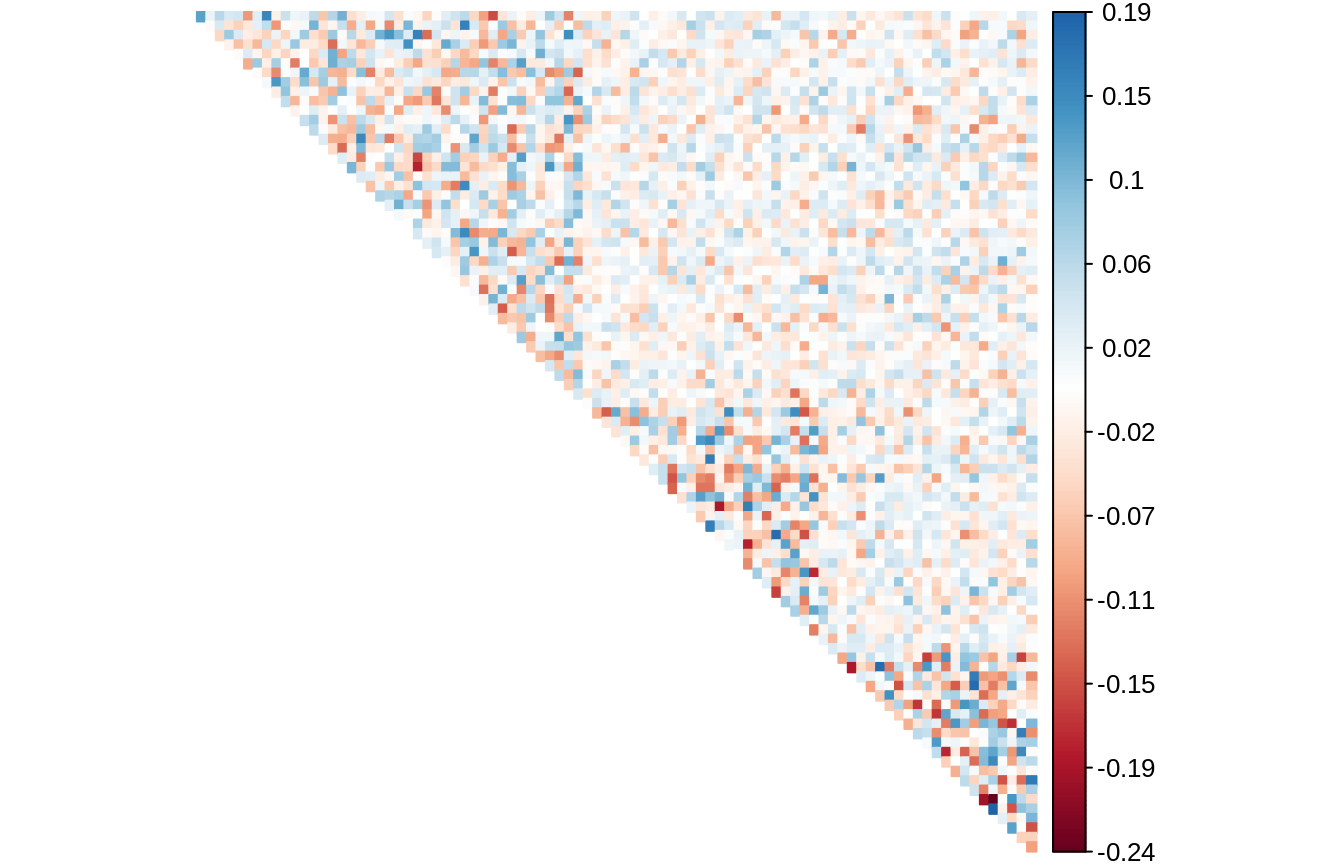
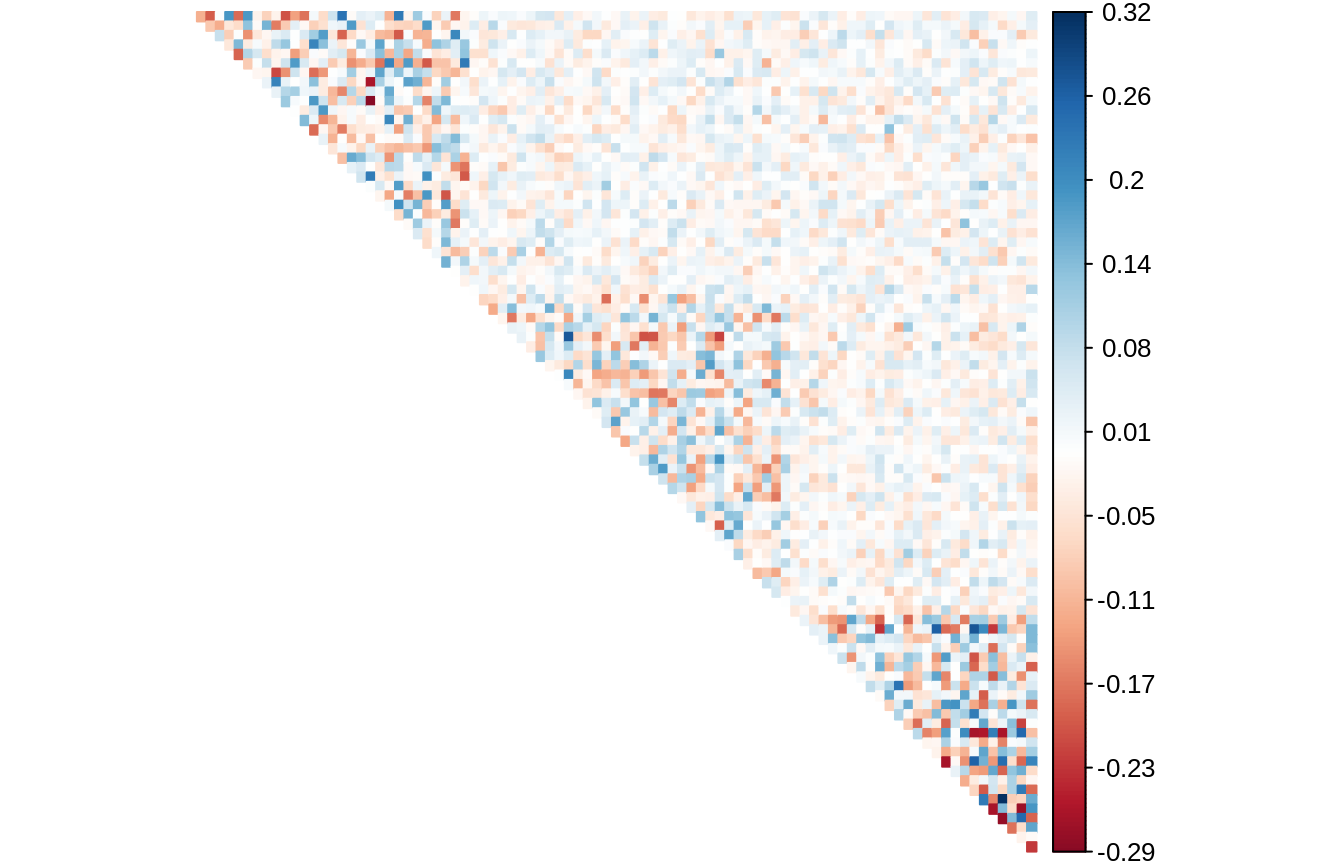
Deploy jchiquet/rggm to github.com/jchiquet/rggm.git:gh-pages

diff --git a/articles/GGM_data_generation.html b/articles/GGM_data_generation.html
@@ -87,7 +87,7 @@
     <div class="page-header toc-ignore">
       <h1 data-toc-skip>Generating Gaussian data from a Graphical Model with SBM structure</h1>
             
-            <h4 class="date">27 March, 2020</h4>
+            <h4 class="date">01 April, 2020</h4>
       
       <small class="dont-index">Source: <a href="https://github.com/jchiquet/rggm/blob/master/vignettes/GGM_data_generation.Rmd"><code>vignettes/GGM_data_generation.Rmd</code></a></small>
       <div class="hidden name"><code>GGM_data_generation.Rmd</code></div>
@@ -112,9 +112,9 @@
 <a href="#sbm-parameters" class="anchor"></a>SBM parameters</h3>
 <p>We consider in the following an undirect network <span class="math inline">\(\mathcal{G}\)</span> with 100 nodes splitted into 3 blocks with community-like connectivity:</p>
 <div class="sourceCode" id="cb2"><html><body><pre class="r"><span class="no">nNodes</span>  <span class="kw">&lt;-</span> <span class="fl">90</span>
-<span class="no">blockProp</span> <span class="kw">&lt;-</span> <span class="fu"><a href="https://rdrr.io/r/base/c.html">c</a></span>(<span class="fl">.5</span>, <span class="fl">.25</span>, <span class="fl">.25</span>)   <span class="co"># group proportions</span>
+<span class="no">blockProp</span> <span class="kw">&lt;-</span> <span class="fu"><a href="https://rdrr.io/r/base/c.html">c</a></span>(<span class="fl">1</span>/<span class="fl">3</span>, <span class="fl">1</span>/<span class="fl">3</span>, <span class="fl">1</span>/<span class="fl">3</span>)   <span class="co"># group proportions</span>
 <span class="no">nbBlock</span>   <span class="kw">&lt;-</span> <span class="fu"><a href="https://rdrr.io/r/base/length.html">length</a></span>(<span class="no">blockProp</span>) <span class="co"># number of blocks</span>
-<span class="no">connectParam</span> <span class="kw">&lt;-</span> <span class="fu"><a href="https://rdrr.io/r/base/diag.html">diag</a></span>(<span class="fl">.4</span>, <span class="no">nbBlock</span>) + <span class="fl">0.05</span> <span class="co"># connectivity matrix: affiliation network</span></pre></body></html></div>
+<span class="no">connectParam</span> <span class="kw">&lt;-</span> <span class="fu"><a href="https://rdrr.io/r/base/diag.html">diag</a></span>(<span class="fl">.4</span>, <span class="no">nbBlock</span>) + <span class="fl">0.01</span> <span class="co"># connectivity matrix: affiliation network</span></pre></body></html></div>
 </div>
 <div id="sampling-under-the-sbm" class="section level3">
 <h3 class="hasAnchor">
@@ -123,13 +123,16 @@
 <div class="sourceCode" id="cb3"><html><body><pre class="r"><span class="co">## Graph Sampling</span>
 <span class="no">mySBM</span> <span class="kw">&lt;-</span> <span class="fu"><a href="../reference/rSBM.html">rSBM</a></span>(<span class="no">nNodes</span>, <span class="no">connectParam</span>, <span class="no">blockProp</span>)
 <span class="co">## Graph plotting</span>
-<span class="fu"><a href="https://rdrr.io/r/graphics/plot.html">plot</a></span>(<span class="no">mySBM</span>, <span class="kw">vertex.color</span> <span class="kw">=</span> <span class="kw pkg">igraph</span><span class="kw ns">::</span><span class="fu"><a href="https://rdrr.io/pkg/igraph/man/V.html">V</a></span>(<span class="no">mySBM</span>)$<span class="no">memberships</span>)</pre></body></html></div>
+<span class="fu"><a href="https://rdrr.io/r/graphics/plot.html">plot</a></span>(<span class="no">mySBM</span>, <span class="kw">vertex.color</span> <span class="kw">=</span> <span class="fu"><a href="https://rdrr.io/pkg/igraph/man/V.html">V</a></span>(<span class="no">mySBM</span>)$<span class="no">memberships</span>)</pre></body></html></div>
 <p><img src="GGM_data_generation_files/figure-html/SBM%20sampling-1.png" width="672"></p>
 </div>
 <div id="adding-weights-to-the-edges" class="section level3">
 <h3 class="hasAnchor">
 <a href="#adding-weights-to-the-edges" class="anchor"></a>Adding weights to the edges</h3>
 <p>In <strong>rggm</strong>, the user can add some random weights to the edges of an existing SBM. Those weigths are drawn under a predefined distribution (only “gaussian” and “poisson” are implemented at the moment) the parameters of which are defined blocwise</p>
+<div id="gaussian-weights" class="section level4">
+<h4 class="hasAnchor">
+<a href="#gaussian-weights" class="anchor"></a>Gaussian weights</h4>
 <p>We consider for instance Gaussian weights in this piece of code:</p>
 <div class="sourceCode" id="cb4"><html><body><pre class="r"><span class="co">## Sampling Gaussian weights</span>
 <span class="no">mu_within</span>   <span class="kw">&lt;-</span> <span class="fl">4</span> ; <span class="no">sigma_within</span>  <span class="kw">&lt;-</span> <span class="fl">.5</span>
@@ -137,10 +140,36 @@
 <span class="no">theta</span> <span class="kw">&lt;-</span> <span class="fu"><a href="https://rdrr.io/r/base/list.html">list</a></span>()
 <span class="no">theta</span>$<span class="no">mu</span>    <span class="kw">&lt;-</span> <span class="fu"><a href="https://rdrr.io/r/base/matrix.html">matrix</a></span>(<span class="no">mu_between</span>   , <span class="no">nbBlock</span>, <span class="no">nbBlock</span>); <span class="fu"><a href="https://rdrr.io/r/base/diag.html">diag</a></span>(<span class="no">theta</span>$<span class="no">mu</span>)    <span class="kw">&lt;-</span> <span class="no">mu_within</span>    <span class="co"># means</span>
 <span class="no">theta</span>$<span class="no">sigma</span> <span class="kw">&lt;-</span> <span class="fu"><a href="https://rdrr.io/r/base/matrix.html">matrix</a></span>(<span class="no">sigma_between</span>, <span class="no">nbBlock</span>, <span class="no">nbBlock</span>); <span class="fu"><a href="https://rdrr.io/r/base/diag.html">diag</a></span>(<span class="no">theta</span>$<span class="no">sigma</span>) <span class="kw">&lt;-</span> <span class="no">sigma_within</span> <span class="co"># sd</span></pre></body></html></div>
-<p>Résultat convaincant</p>
-<div class="sourceCode" id="cb5"><html><body><pre class="r"><span class="no">mySBM</span> <span class="kw">&lt;-</span> <span class="fu"><a href="../reference/rWeightSBM.html">rWeightSBM</a></span>(<span class="no">mySBM</span>, <span class="st">"gaussian"</span>, <span class="no">theta</span>)
-<span class="fu"><a href="https://rdrr.io/r/graphics/hist.html">hist</a></span>(<span class="kw pkg">igraph</span><span class="kw ns">::</span><span class="fu"><a href="https://rdrr.io/pkg/igraph/man/E.html">E</a></span>(<span class="no">mySBM</span>)$<span class="no">weight</span>,  <span class="kw">breaks</span> <span class="kw">=</span> <span class="fu"><a href="https://rdrr.io/r/base/MathFun.html">sqrt</a></span>(<span class="kw pkg">igraph</span><span class="kw ns">::</span><span class="fu"><a href="https://rdrr.io/pkg/igraph/man/gsize.html">gsize</a></span>(<span class="no">mySBM</span>)), <span class="kw">freq</span> <span class="kw">=</span> <span class="fl">FALSE</span>, <span class="kw">xlab</span> <span class="kw">=</span> <span class="st">"weights"</span>, <span class="kw">main</span> <span class="kw">=</span> <span class="st">"histogram of weights"</span>)</pre></body></html></div>
+<div class="sourceCode" id="cb5"><html><body><pre class="r"><span class="no">mySBM_Gaussian</span> <span class="kw">&lt;-</span> <span class="fu"><a href="../reference/rWeightSBM.html">rWeightSBM</a></span>(<span class="no">mySBM</span>, <span class="st">"gaussian"</span>, <span class="no">theta</span>)
+<span class="fu"><a href="https://rdrr.io/r/graphics/hist.html">hist</a></span>(<span class="fu"><a href="https://rdrr.io/pkg/igraph/man/E.html">E</a></span>(<span class="no">mySBM_Gaussian</span>)$<span class="no">weight</span>,  <span class="kw">breaks</span> <span class="kw">=</span> <span class="fu"><a href="https://rdrr.io/r/base/MathFun.html">sqrt</a></span>(<span class="fu"><a href="https://rdrr.io/pkg/igraph/man/gsize.html">gsize</a></span>(<span class="no">mySBM_Gaussian</span>)), <span class="kw">freq</span> <span class="kw">=</span> <span class="fl">FALSE</span>, <span class="kw">xlab</span> <span class="kw">=</span> <span class="st">"weights"</span>, <span class="kw">main</span> <span class="kw">=</span> <span class="st">"histogram of Gaussian weights"</span>)</pre></body></html></div>
 <p><img src="GGM_data_generation_files/figure-html/Gaussian%20weights%20plot-1.png" width="672"></p>
+</div>
+</div>
+<div id="others-weights-poisson-or-laplace" class="section level3">
+<h3 class="hasAnchor">
+<a href="#others-weights-poisson-or-laplace" class="anchor"></a>Others weights: Poisson or Laplace</h3>
+<p>At the moment, one could add Poisson or Laplace weigths as an alternative to binary or Gaussian weights on the edges:</p>
+<div class="sourceCode" id="cb6"><html><body><pre class="r"><span class="co">## Sampling Laplace weights</span>
+<span class="no">m_within</span>   <span class="kw">&lt;-</span> <span class="fl">4</span> ; <span class="no">s_within</span>  <span class="kw">&lt;-</span> <span class="fl">.5</span>
+<span class="no">m_between</span>  <span class="kw">&lt;-</span> <span class="fl">2</span> ; <span class="no">s_between</span> <span class="kw">&lt;-</span> <span class="fl">.5</span>
+<span class="no">theta</span> <span class="kw">&lt;-</span> <span class="fu"><a href="https://rdrr.io/r/base/list.html">list</a></span>()
+<span class="no">theta</span>$<span class="no">m</span> <span class="kw">&lt;-</span> <span class="fu"><a href="https://rdrr.io/r/base/matrix.html">matrix</a></span>(<span class="no">m_between</span>, <span class="no">nbBlock</span>, <span class="no">nbBlock</span>); <span class="fu"><a href="https://rdrr.io/r/base/diag.html">diag</a></span>(<span class="no">theta</span>$<span class="no">m</span>) <span class="kw">&lt;-</span> <span class="no">m_within</span> <span class="co"># location parameter</span>
+<span class="no">theta</span>$<span class="no">s</span> <span class="kw">&lt;-</span> <span class="fu"><a href="https://rdrr.io/r/base/matrix.html">matrix</a></span>(<span class="no">s_between</span>, <span class="no">nbBlock</span>, <span class="no">nbBlock</span>); <span class="fu"><a href="https://rdrr.io/r/base/diag.html">diag</a></span>(<span class="no">theta</span>$<span class="no">s</span>) <span class="kw">&lt;-</span> <span class="no">s_within</span> <span class="co"># scale parameters</span>
+
+<span class="no">mySBM_Laplace</span> <span class="kw">&lt;-</span> <span class="fu"><a href="../reference/rWeightSBM.html">rWeightSBM</a></span>(<span class="no">mySBM</span>, <span class="st">"laplace"</span>, <span class="no">theta</span>)
+
+<span class="co">## Sampling Poisson weights</span>
+<span class="no">lambda_within</span>   <span class="kw">&lt;-</span> <span class="fl">4</span>
+<span class="no">lambda_between</span>  <span class="kw">&lt;-</span> <span class="fl">1</span>
+<span class="no">theta</span> <span class="kw">&lt;-</span> <span class="fu"><a href="https://rdrr.io/r/base/list.html">list</a></span>()
+<span class="no">theta</span>$<span class="no">lambda</span> <span class="kw">&lt;-</span> <span class="fu"><a href="https://rdrr.io/r/base/matrix.html">matrix</a></span>(<span class="no">lambda_between</span>, <span class="no">nbBlock</span>, <span class="no">nbBlock</span>); <span class="fu"><a href="https://rdrr.io/r/base/diag.html">diag</a></span>(<span class="no">theta</span>$<span class="no">lambda</span>) <span class="kw">&lt;-</span> <span class="no">lambda_within</span> <span class="co"># mean/variance parameter</span>
+<span class="co">#'</span>
+<span class="no">mySBM_Poisson</span> <span class="kw">&lt;-</span> <span class="fu"><a href="../reference/rWeightSBM.html">rWeightSBM</a></span>(<span class="no">mySBM</span>, <span class="st">"poisson"</span>, <span class="no">theta</span>)
+
+<span class="fu"><a href="https://rdrr.io/r/graphics/par.html">par</a></span>(<span class="kw">mfrow</span> <span class="kw">=</span> <span class="fu"><a href="https://rdrr.io/r/base/c.html">c</a></span>(<span class="fl">1</span>,<span class="fl">2</span>))
+<span class="fu"><a href="https://rdrr.io/r/graphics/hist.html">hist</a></span>(<span class="fu"><a href="https://rdrr.io/pkg/igraph/man/E.html">E</a></span>(<span class="no">mySBM_Laplace</span>)$<span class="no">weight</span>,  <span class="kw">breaks</span> <span class="kw">=</span> <span class="fu"><a href="https://rdrr.io/r/base/MathFun.html">sqrt</a></span>(<span class="fu"><a href="https://rdrr.io/pkg/igraph/man/gsize.html">gsize</a></span>(<span class="no">mySBM_Laplace</span>)), <span class="kw">xlab</span> <span class="kw">=</span> <span class="st">"weights"</span>, <span class="kw">main</span> <span class="kw">=</span> <span class="st">"Laplace weights"</span>)
+<span class="fu"><a href="https://rdrr.io/r/graphics/hist.html">hist</a></span>(<span class="fu"><a href="https://rdrr.io/pkg/igraph/man/E.html">E</a></span>(<span class="no">mySBM_Poisson</span>)$<span class="no">weight</span>,  <span class="kw">breaks</span> <span class="kw">=</span> <span class="fu"><a href="https://rdrr.io/r/base/MathFun.html">sqrt</a></span>(<span class="fu"><a href="https://rdrr.io/pkg/igraph/man/gsize.html">gsize</a></span>(<span class="no">mySBM_Poisson</span>)), <span class="kw">xlab</span> <span class="kw">=</span> <span class="st">"weights"</span>, <span class="kw">main</span> <span class="kw">=</span> <span class="st">"Poisson weights"</span>)</pre></body></html></div>
+<p><img src="GGM_data_generation_files/figure-html/Laplace%20and%20Poisson%20weights%20plot-1.png" width="672"></p>
 </div>
 </div>
 <div id="drawing-multivariate-gaussian-observations-faithful-to-a-the-graph" class="section level2">
@@ -155,23 +184,23 @@
 <a href="#constructing-the-precision-matrix-and-the-variance-covariance" class="anchor"></a>Constructing the precision matrix and the variance-covariance</h3>
 <p>The function <code>graph2prec</code> allows one to build a precision matrix <span class="math inline">\(\boldsymbol\Omega\)</span> faitful to the original graph, that is, with a sparsity pattern reflecting the graphical model of the SBM generated above. To this end, we rely on the Laplacian matrix which is set diagonal dominant by increasing iteratively its diagonal. Note that when the graph is weighted, the weighted Laplacian is used.</p>
 <p>An optional argument allows to fix the conditional variance <em>a priori</em><a href="#fn1" class="footnote-ref" id="fnref1"><sup>1</sup></a>. This argument allows the user to indirectly tune the variances in the variance-covariance matrix <span class="math inline">\(\boldsymbol\Sigma\)</span>.</p>
-<p>For instance, if we want to fix the conditional variances to 1 (a thus get variances all equal to 1),</p>
-<div class="sourceCode" id="cb6"><html><body><pre class="r"><span class="no">Omega</span> <span class="kw">&lt;-</span> <span class="fu"><a href="../reference/graph2prec.html">graph2prec</a></span>(<span class="no">mySBM</span>, <span class="kw">cond_var</span> <span class="kw">=</span> <span class="fu"><a href="https://rdrr.io/r/base/rep.html">rep</a></span>(<span class="fl">1</span>, <span class="fu"><a href="https://rdrr.io/pkg/igraph/man/gorder.html">gorder</a></span>(<span class="no">mySBM</span>)))</pre></body></html></div>
+<p>For instance, if we want to fix the conditional variances to 1 (and thus get variances all equal to 1),</p>
+<div class="sourceCode" id="cb7"><html><body><pre class="r"><span class="no">Omega</span> <span class="kw">&lt;-</span> <span class="fu"><a href="../reference/graph2prec.html">graph2prec</a></span>(<span class="no">mySBM_Gaussian</span>, <span class="kw">cond_var</span> <span class="kw">=</span> <span class="fu"><a href="https://rdrr.io/r/base/rep.html">rep</a></span>(<span class="fl">1</span>, <span class="fu"><a href="https://rdrr.io/pkg/igraph/man/gorder.html">gorder</a></span>(<span class="no">mySBM</span>)))</pre></body></html></div>
 <p>The variance-covariance <span class="math inline">\(\boldsymbol\Sigma\)</span> is then obtain be inversion, since <span class="math inline">\(\boldsymbol\Omega\)</span> is guaranted to be strictly positive-definite.</p>
-<div class="sourceCode" id="cb7"><html><body><pre class="r"><span class="no">Sigma</span> <span class="kw">&lt;-</span> <span class="fu"><a href="https://rdrr.io/pkg/Matrix/man/solve-methods.html">solve</a></span>(<span class="no">Omega</span>)</pre></body></html></div>
-<p>The corresponding matrices exhibit the expected strong blocwise, diagonal structure of the original affilitation graph.</p>
-<div class="sourceCode" id="cb8"><html><body><pre class="r"><span class="fu"><a href="https://rdrr.io/r/graphics/par.html">par</a></span>(<span class="kw">mfrow</span> <span class="kw">=</span> <span class="fu"><a href="https://rdrr.io/r/base/c.html">c</a></span>(<span class="fl">1</span>,<span class="fl">2</span>))
+<div class="sourceCode" id="cb8"><html><body><pre class="r"><span class="no">Sigma</span> <span class="kw">&lt;-</span> <span class="fu"><a href="https://rdrr.io/pkg/Matrix/man/solve-methods.html">solve</a></span>(<span class="no">Omega</span>)</pre></body></html></div>
+<p>The corresponding matrices exhibit the expected strong block-diagonal structure of the original affilitation graph.</p>
+<div class="sourceCode" id="cb9"><html><body><pre class="r"><span class="fu"><a href="https://rdrr.io/r/graphics/par.html">par</a></span>(<span class="kw">mfrow</span> <span class="kw">=</span> <span class="fu"><a href="https://rdrr.io/r/base/c.html">c</a></span>(<span class="fl">1</span>,<span class="fl">2</span>))
 <span class="fu"><a href="https://rdrr.io/pkg/corrplot/man/corrplot.html">corrplot</a></span>(<span class="fu"><a href="https://rdrr.io/r/base/matrix.html">as.matrix</a></span>(<span class="no">Omega</span>), <span class="kw">is.corr</span> <span class="kw">=</span> <span class="fl">FALSE</span>, <span class="kw">tl.pos</span> <span class="kw">=</span> <span class="st">"n"</span>, <span class="kw">method</span> <span class="kw">=</span> <span class="st">'color'</span>, <span class="kw">type</span> <span class="kw">=</span> <span class="st">"upper"</span>, <span class="kw">diag</span> <span class="kw">=</span> <span class="fl">FALSE</span>)
 <span class="fu"><a href="https://rdrr.io/pkg/corrplot/man/corrplot.html">corrplot</a></span>(<span class="fu"><a href="https://rdrr.io/r/base/matrix.html">as.matrix</a></span>(<span class="no">Sigma</span>), <span class="kw">is.corr</span> <span class="kw">=</span> <span class="fl">FALSE</span>, <span class="kw">tl.pos</span> <span class="kw">=</span> <span class="st">"n"</span>, <span class="kw">method</span> <span class="kw">=</span> <span class="st">'color'</span>, <span class="kw">type</span> <span class="kw">=</span> <span class="st">"upper"</span>, <span class="kw">diag</span> <span class="kw">=</span> <span class="fl">FALSE</span>)</pre></body></html></div>
 <p><img src="GGM_data_generation_files/figure-html/plot-1.png" width="672"></p>
-<div class="sourceCode" id="cb9"><html><body><pre class="r"><span class="fu"><a href="https://rdrr.io/r/graphics/hist.html">hist</a></span>(<span class="no">Sigma</span>[<span class="fu"><a href="https://rdrr.io/r/base/lower.tri.html">upper.tri</a></span>(<span class="no">Sigma</span>)])
+<div class="sourceCode" id="cb10"><html><body><pre class="r"><span class="fu"><a href="https://rdrr.io/r/graphics/hist.html">hist</a></span>(<span class="no">Sigma</span>[<span class="fu"><a href="https://rdrr.io/r/base/lower.tri.html">upper.tri</a></span>(<span class="no">Sigma</span>)])
 <span class="fu"><a href="https://rdrr.io/r/graphics/hist.html">hist</a></span>(<span class="no">Omega</span>[<span class="fu"><a href="https://rdrr.io/r/base/lower.tri.html">upper.tri</a></span>(<span class="no">Omega</span>)])</pre></body></html></div>
 <p><img src="GGM_data_generation_files/figure-html/plot-2.png" width="672"></p>
 </div>
 <div id="gaussian-observations" class="section level3">
 <h3 class="hasAnchor">
 <a href="#gaussian-observations" class="anchor"></a>Gaussian Observations</h3>
-<div class="sourceCode" id="cb10"><html><body><pre class="r"><span class="no">n</span> <span class="kw">&lt;-</span> <span class="fl">1000</span>
+<div class="sourceCode" id="cb11"><html><body><pre class="r"><span class="no">n</span> <span class="kw">&lt;-</span> <span class="fl">1000</span>
 <span class="no">means</span> <span class="kw">&lt;-</span> <span class="fu"><a href="https://rdrr.io/r/base/rep.html">rep</a></span>(<span class="fl">0</span>, <span class="fu"><a href="https://rdrr.io/r/base/nrow.html">ncol</a></span>(<span class="no">Sigma</span>))
 <span class="no">X</span> <span class="kw">&lt;-</span> <span class="fu"><a href="../reference/rmgaussian.html">rmgaussian</a></span>(<span class="no">n</span>, <span class="no">means</span>, <span class="no">Sigma</span>)
 <span class="no">Sigma_hat</span> <span class="kw">&lt;-</span> <span class="fu"><a href="https://rdrr.io/r/stats/cor.html">cov</a></span>(<span class="fu"><a href="https://rdrr.io/r/base/matrix.html">as.matrix</a></span>(<span class="no">X</span>))

diff --git a/reference/rWeightSBM.html b/reference/rWeightSBM.html
@@ -135,7 +135,7 @@
     <p>This function draws weights according to a user-defined distribution for the edges of an existing binary SBM.</p>
     </div>
 
-    <pre class="usage"><span class='fu'>rWeightSBM</span>(<span class='no'>anSBM</span>, <span class='kw'>family</span> <span class='kw'>=</span> <span class='fu'><a href='https://rdrr.io/r/base/c.html'>c</a></span>(<span class='st'>"gaussian"</span>, <span class='st'>"poisson"</span>), <span class='no'>theta</span>)</pre>
+    <pre class="usage"><span class='fu'>rWeightSBM</span>(<span class='no'>anSBM</span>, <span class='kw'>family</span> <span class='kw'>=</span> <span class='fu'><a href='https://rdrr.io/r/base/c.html'>c</a></span>(<span class='st'>"gaussian"</span>, <span class='st'>"poisson"</span>, <span class='st'>"laplace"</span>), <span class='no'>theta</span>)</pre>
 
     <h2 class="hasAnchor" id="arguments"><a class="anchor" href="#arguments"></a>Arguments</h2>
     <table class="ref-arguments">
@@ -150,12 +150,13 @@
     </tr>
     <tr>
       <th>theta</th>
-      <td><p>list embedding parameters required for the distribution of the weights. See details.</p>
+      <td><p>list embedding parameters required for the distribution of the weights. Either "gaussian", "poisson" or "laplace". See details.</p>
 <p>Elements in the <code>theta</code> should be named as follows, depending on the argument <code>family</code>, with
 dimension matching the number of blocks in the original SBM:</p><ul>
-<li><p>Gaussian<code>theta$mu</code>, a (nbBlock x nbBlock) matrix of means; <code>theta$sigma</code>, a (nbBlock x nbBlock) matrix of standa deviation</p></li>
-<li><p>Poisson<code>theta$lambda</code>, , a (nbBlock x nbBlock) matrix of means.</p></li>
-<li><p>Otherszoon available.</p></li>
+<li><p>Gaussian<code>theta$mu</code>, a (nbBlock x nbBlock) matrix of means; <code>theta$sigma</code>, a (nbBlock x nbBlock) matrix of standard deviations</p></li>
+<li><p>Laplace<code>theta$m</code>, a (nbBlock x nbBlock) matrix of location parameters; <code>theta$s</code>, a (nbBlock x nbBlock) matrix of scale parameters</p></li>
+<li><p>Poisson<code>theta$lambda</code>, a (nbBlock x nbBlock) matrix of means.</p></li>
+<li><p>Otherssoon available.</p></li>
 </ul></td>
     </tr>
     </table>
@@ -181,8 +182,24 @@ dimension matching the number of blocks in the original SBM:</p><ul>
 <span class='no'>theta</span>$<span class='no'>mu</span>    <span class='kw'>&lt;-</span> <span class='fu'><a href='https://rdrr.io/r/base/matrix.html'>matrix</a></span>(<span class='no'>mu_between</span>   , <span class='no'>nbBlock</span>, <span class='no'>nbBlock</span>); <span class='fu'><a href='https://rdrr.io/r/base/diag.html'>diag</a></span>(<span class='no'>theta</span>$<span class='no'>mu</span>)    <span class='kw'>&lt;-</span> <span class='no'>mu_within</span>    <span class='co'># means</span>
 <span class='no'>theta</span>$<span class='no'>sigma</span> <span class='kw'>&lt;-</span> <span class='fu'><a href='https://rdrr.io/r/base/matrix.html'>matrix</a></span>(<span class='no'>sigma_between</span>, <span class='no'>nbBlock</span>, <span class='no'>nbBlock</span>); <span class='fu'><a href='https://rdrr.io/r/base/diag.html'>diag</a></span>(<span class='no'>theta</span>$<span class='no'>sigma</span>) <span class='kw'>&lt;-</span> <span class='no'>sigma_within</span> <span class='co'># sd</span>
 
-<span class='no'>mySBM</span> <span class='kw'>&lt;-</span> <span class='fu'>rWeightSBM</span>(<span class='no'>mySBM</span>, <span class='st'>"gaussian"</span>, <span class='no'>theta</span>)</div><div class='output co'>#&gt; <span class='error'>Error in igraph::gsize(mySBM): object 'mySBM' not found</span></div><div class='input'>
-<span class='fu'><a href='https://rdrr.io/r/graphics/hist.html'>hist</a></span>(<span class='kw pkg'>igraph</span><span class='kw ns'>::</span><span class='fu'><a href='https://rdrr.io/pkg/igraph/man/E.html'>E</a></span>(<span class='no'>mySBM</span>)$<span class='no'>weight</span>,  <span class='kw'>breaks</span> <span class='kw'>=</span> <span class='fu'><a href='https://rdrr.io/r/base/MathFun.html'>sqrt</a></span>(<span class='kw pkg'>igraph</span><span class='kw ns'>::</span><span class='fu'><a href='https://rdrr.io/pkg/igraph/man/gsize.html'>gsize</a></span>(<span class='no'>mySBM</span>)))</div><div class='output co'>#&gt; <span class='error'>Error in hist.default(igraph::E(mySBM)$weight, breaks = sqrt(igraph::gsize(mySBM))): 'x' must be numeric</span></div><div class='input'>
+<span class='no'>mySBM_Gaussian</span> <span class='kw'>&lt;-</span> <span class='fu'>rWeightSBM</span>(<span class='no'>mySBM</span>, <span class='st'>"gaussian"</span>, <span class='no'>theta</span>)</div><div class='output co'>#&gt; <span class='error'>Error in igraph::gsize(mySBM): object 'mySBM' not found</span></div><div class='input'><span class='fu'><a href='https://rdrr.io/r/graphics/hist.html'>hist</a></span>(<span class='kw pkg'>igraph</span><span class='kw ns'>::</span><span class='fu'><a href='https://rdrr.io/pkg/igraph/man/E.html'>E</a></span>(<span class='no'>mySBM_Gaussian</span>)$<span class='no'>weight</span>,  <span class='kw'>breaks</span> <span class='kw'>=</span> <span class='fu'><a href='https://rdrr.io/r/base/MathFun.html'>sqrt</a></span>(<span class='kw pkg'>igraph</span><span class='kw ns'>::</span><span class='fu'><a href='https://rdrr.io/pkg/igraph/man/gsize.html'>gsize</a></span>(<span class='no'>mySBM_Gaussian</span>)))</div><div class='output co'>#&gt; <span class='error'>Error in "igraph" %in% class(graph): object 'mySBM_Gaussian' not found</span></div><div class='input'>
+<span class='co'>## Sampling Laplace weights</span>
+<span class='no'>m_within</span>   <span class='kw'>&lt;-</span> <span class='fl'>4</span> ; <span class='no'>s_within</span>  <span class='kw'>&lt;-</span> <span class='fl'>.5</span>
+<span class='no'>m_between</span>  <span class='kw'>&lt;-</span> <span class='fl'>2</span> ; <span class='no'>s_between</span> <span class='kw'>&lt;-</span> <span class='fl'>.5</span>
+<span class='no'>theta</span> <span class='kw'>&lt;-</span> <span class='fu'><a href='https://rdrr.io/r/base/list.html'>list</a></span>()
+<span class='no'>theta</span>$<span class='no'>m</span> <span class='kw'>&lt;-</span> <span class='fu'><a href='https://rdrr.io/r/base/matrix.html'>matrix</a></span>(<span class='no'>m_between</span>, <span class='no'>nbBlock</span>, <span class='no'>nbBlock</span>); <span class='fu'><a href='https://rdrr.io/r/base/diag.html'>diag</a></span>(<span class='no'>theta</span>$<span class='no'>m</span>) <span class='kw'>&lt;-</span> <span class='no'>m_within</span> <span class='co'># location parameter</span>
+<span class='no'>theta</span>$<span class='no'>s</span> <span class='kw'>&lt;-</span> <span class='fu'><a href='https://rdrr.io/r/base/matrix.html'>matrix</a></span>(<span class='no'>s_between</span>, <span class='no'>nbBlock</span>, <span class='no'>nbBlock</span>); <span class='fu'><a href='https://rdrr.io/r/base/diag.html'>diag</a></span>(<span class='no'>theta</span>$<span class='no'>s</span>) <span class='kw'>&lt;-</span> <span class='no'>s_within</span> <span class='co'># scale parameters</span>
+
+<span class='no'>mySBM_Laplace</span> <span class='kw'>&lt;-</span> <span class='fu'>rWeightSBM</span>(<span class='no'>mySBM</span>, <span class='st'>"laplace"</span>, <span class='no'>theta</span>)</div><div class='output co'>#&gt; <span class='error'>Error in igraph::gsize(mySBM): object 'mySBM' not found</span></div><div class='input'><span class='fu'><a href='https://rdrr.io/r/graphics/hist.html'>hist</a></span>(<span class='kw pkg'>igraph</span><span class='kw ns'>::</span><span class='fu'><a href='https://rdrr.io/pkg/igraph/man/E.html'>E</a></span>(<span class='no'>mySBM_Laplace</span>)$<span class='no'>weight</span>,  <span class='kw'>breaks</span> <span class='kw'>=</span> <span class='fu'><a href='https://rdrr.io/r/base/MathFun.html'>sqrt</a></span>(<span class='kw pkg'>igraph</span><span class='kw ns'>::</span><span class='fu'><a href='https://rdrr.io/pkg/igraph/man/gsize.html'>gsize</a></span>(<span class='no'>mySBM_Laplace</span>)))</div><div class='output co'>#&gt; <span class='error'>Error in "igraph" %in% class(graph): object 'mySBM_Laplace' not found</span></div><div class='input'>
+<span class='co'>## Sampling Poisson weights</span>
+<span class='no'>lambda_within</span>   <span class='kw'>&lt;-</span> <span class='fl'>4</span>
+<span class='no'>lambda_between</span>  <span class='kw'>&lt;-</span> <span class='fl'>4</span>
+<span class='no'>theta</span> <span class='kw'>&lt;-</span> <span class='fu'><a href='https://rdrr.io/r/base/list.html'>list</a></span>()
+<span class='co'># mean/variance parameter</span>
+<span class='no'>theta</span>$<span class='no'>lambda</span> <span class='kw'>&lt;-</span> <span class='fu'><a href='https://rdrr.io/r/base/matrix.html'>matrix</a></span>(<span class='no'>lambda_between</span>, <span class='no'>nbBlock</span>, <span class='no'>nbBlock</span>)
+<span class='fu'><a href='https://rdrr.io/r/base/diag.html'>diag</a></span>(<span class='no'>theta</span>$<span class='no'>lambda</span>) <span class='kw'>&lt;-</span> <span class='no'>lambda_within</span>
+
+<span class='no'>mySBM_Poisson</span> <span class='kw'>&lt;-</span> <span class='fu'>rWeightSBM</span>(<span class='no'>mySBM</span>, <span class='st'>"poisson"</span>, <span class='no'>theta</span>)</div><div class='output co'>#&gt; <span class='error'>Error in igraph::gsize(mySBM): object 'mySBM' not found</span></div><div class='input'><span class='fu'><a href='https://rdrr.io/r/graphics/hist.html'>hist</a></span>(<span class='kw pkg'>igraph</span><span class='kw ns'>::</span><span class='fu'><a href='https://rdrr.io/pkg/igraph/man/E.html'>E</a></span>(<span class='no'>mySBM_Poisson</span>)$<span class='no'>weight</span>,  <span class='kw'>breaks</span> <span class='kw'>=</span> <span class='fu'><a href='https://rdrr.io/r/base/MathFun.html'>sqrt</a></span>(<span class='kw pkg'>igraph</span><span class='kw ns'>::</span><span class='fu'><a href='https://rdrr.io/pkg/igraph/man/gsize.html'>gsize</a></span>(<span class='no'>mySBM_Poisson</span>)))</div><div class='output co'>#&gt; <span class='error'>Error in "igraph" %in% class(graph): object 'mySBM_Poisson' not found</span></div><div class='input'>
 </div></pre>
   </div>
   <div class="col-md-3 hidden-xs hidden-sm" id="pkgdown-sidebar">

diff --git a/reference/graph2prec.html b/reference/graph2prec.html
@@ -143,8 +143,8 @@ proportionally to the degree of each node.</p>
   <span class='no'>graph</span>,
   <span class='kw'>neg_prop</span> <span class='kw'>=</span> <span class='fl'>0.5</span>,
   <span class='kw'>cond_var</span> <span class='kw'>=</span> <span class='kw'>NULL</span>,
-  <span class='kw'>epsilon</span> <span class='kw'>=</span> <span class='fl'>0.01</span>,
-  <span class='kw'>delta</span> <span class='kw'>=</span> <span class='fl'>0.1</span>,
+  <span class='kw'>epsilon</span> <span class='kw'>=</span> <span class='fl'>0.001</span>,
+  <span class='kw'>delta</span> <span class='kw'>=</span> <span class='fl'>0.01</span>,
   <span class='kw'>maxIter</span> <span class='kw'>=</span> <span class='fl'>10000</span>
 )</pre>
 
